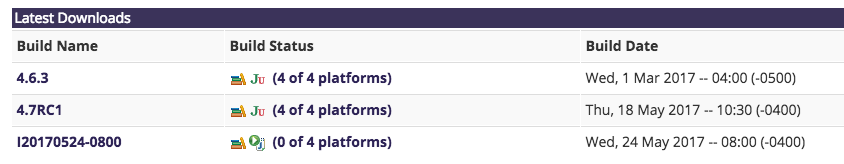
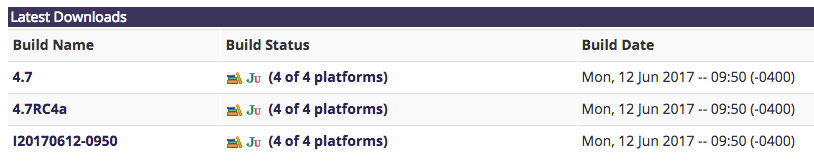
Updated to Oxygen.

diff --git a/step-3/README.md b/step-3/README.md
@@ -8,9 +8,9 @@ Open the `Help` menu and select `Install New Software`.
 
 A new window will open where you can select where do you want to fetch information about extra packages.
 
-Next to the test that says `Work with` there's a drop down where you can select a repository of packages.
+Next to the text that says `Work with` there's a drop down where you can select a repository of packages.
 
-If you have downloaded `Eclipse Nwon`, select `Neon` and press `Enter`. A list of available packages will begin to load.
+If you have downloaded `Eclipse Oxygen`, select `Oxygen`, a list of available packages will begin to load.
 
 Once the list has finished loading, locate the `General Purpose Tools` node and expand it. Then tick the `Marketplace Client` box and click the `Next` button at the bottom.
 
@@ -22,7 +22,7 @@ Open again the `Help` menu and select the new option `Eclipse Marketplace...`
 
 ![Eclipse Marketplace](./images/3.png)
 
-The `Eclipse Marketplace` window will open, In the search box type `pydev` and press `Enter`.
+The `Eclipse Marketplace` window will open, in the search box type `pydev` and press `Enter`.
 
 ![Eclipse Marketplace](./images/4.png)
 
@@ -38,7 +38,7 @@ To enable the `PyDev` plugin you need to change the IDE perspective.
 
 Open the `Window` menu, select `Perspective` -> `Open Perspective` -> `Other...`
 
-Select the `PyDev` perspecive and click the `OK` button.
+Select the `PyDev` perspective and click the `OK` button.
 
 ![Perspective](./images/6.png)
 

diff --git a/step-5/README.md b/step-5/README.md
@@ -1,6 +1,8 @@
 # Running your First Script
 
-After you have created your first project and configured the default `Python` interpreter you should be presented with a screen similar to this one:
+After you have created your first project and configured the default `Python` interpreter you should close the `Welcome` tab.
+
+You will then be presented with a screen similar to this one:
 
 ![Interpreter](./images/1.png)
 
